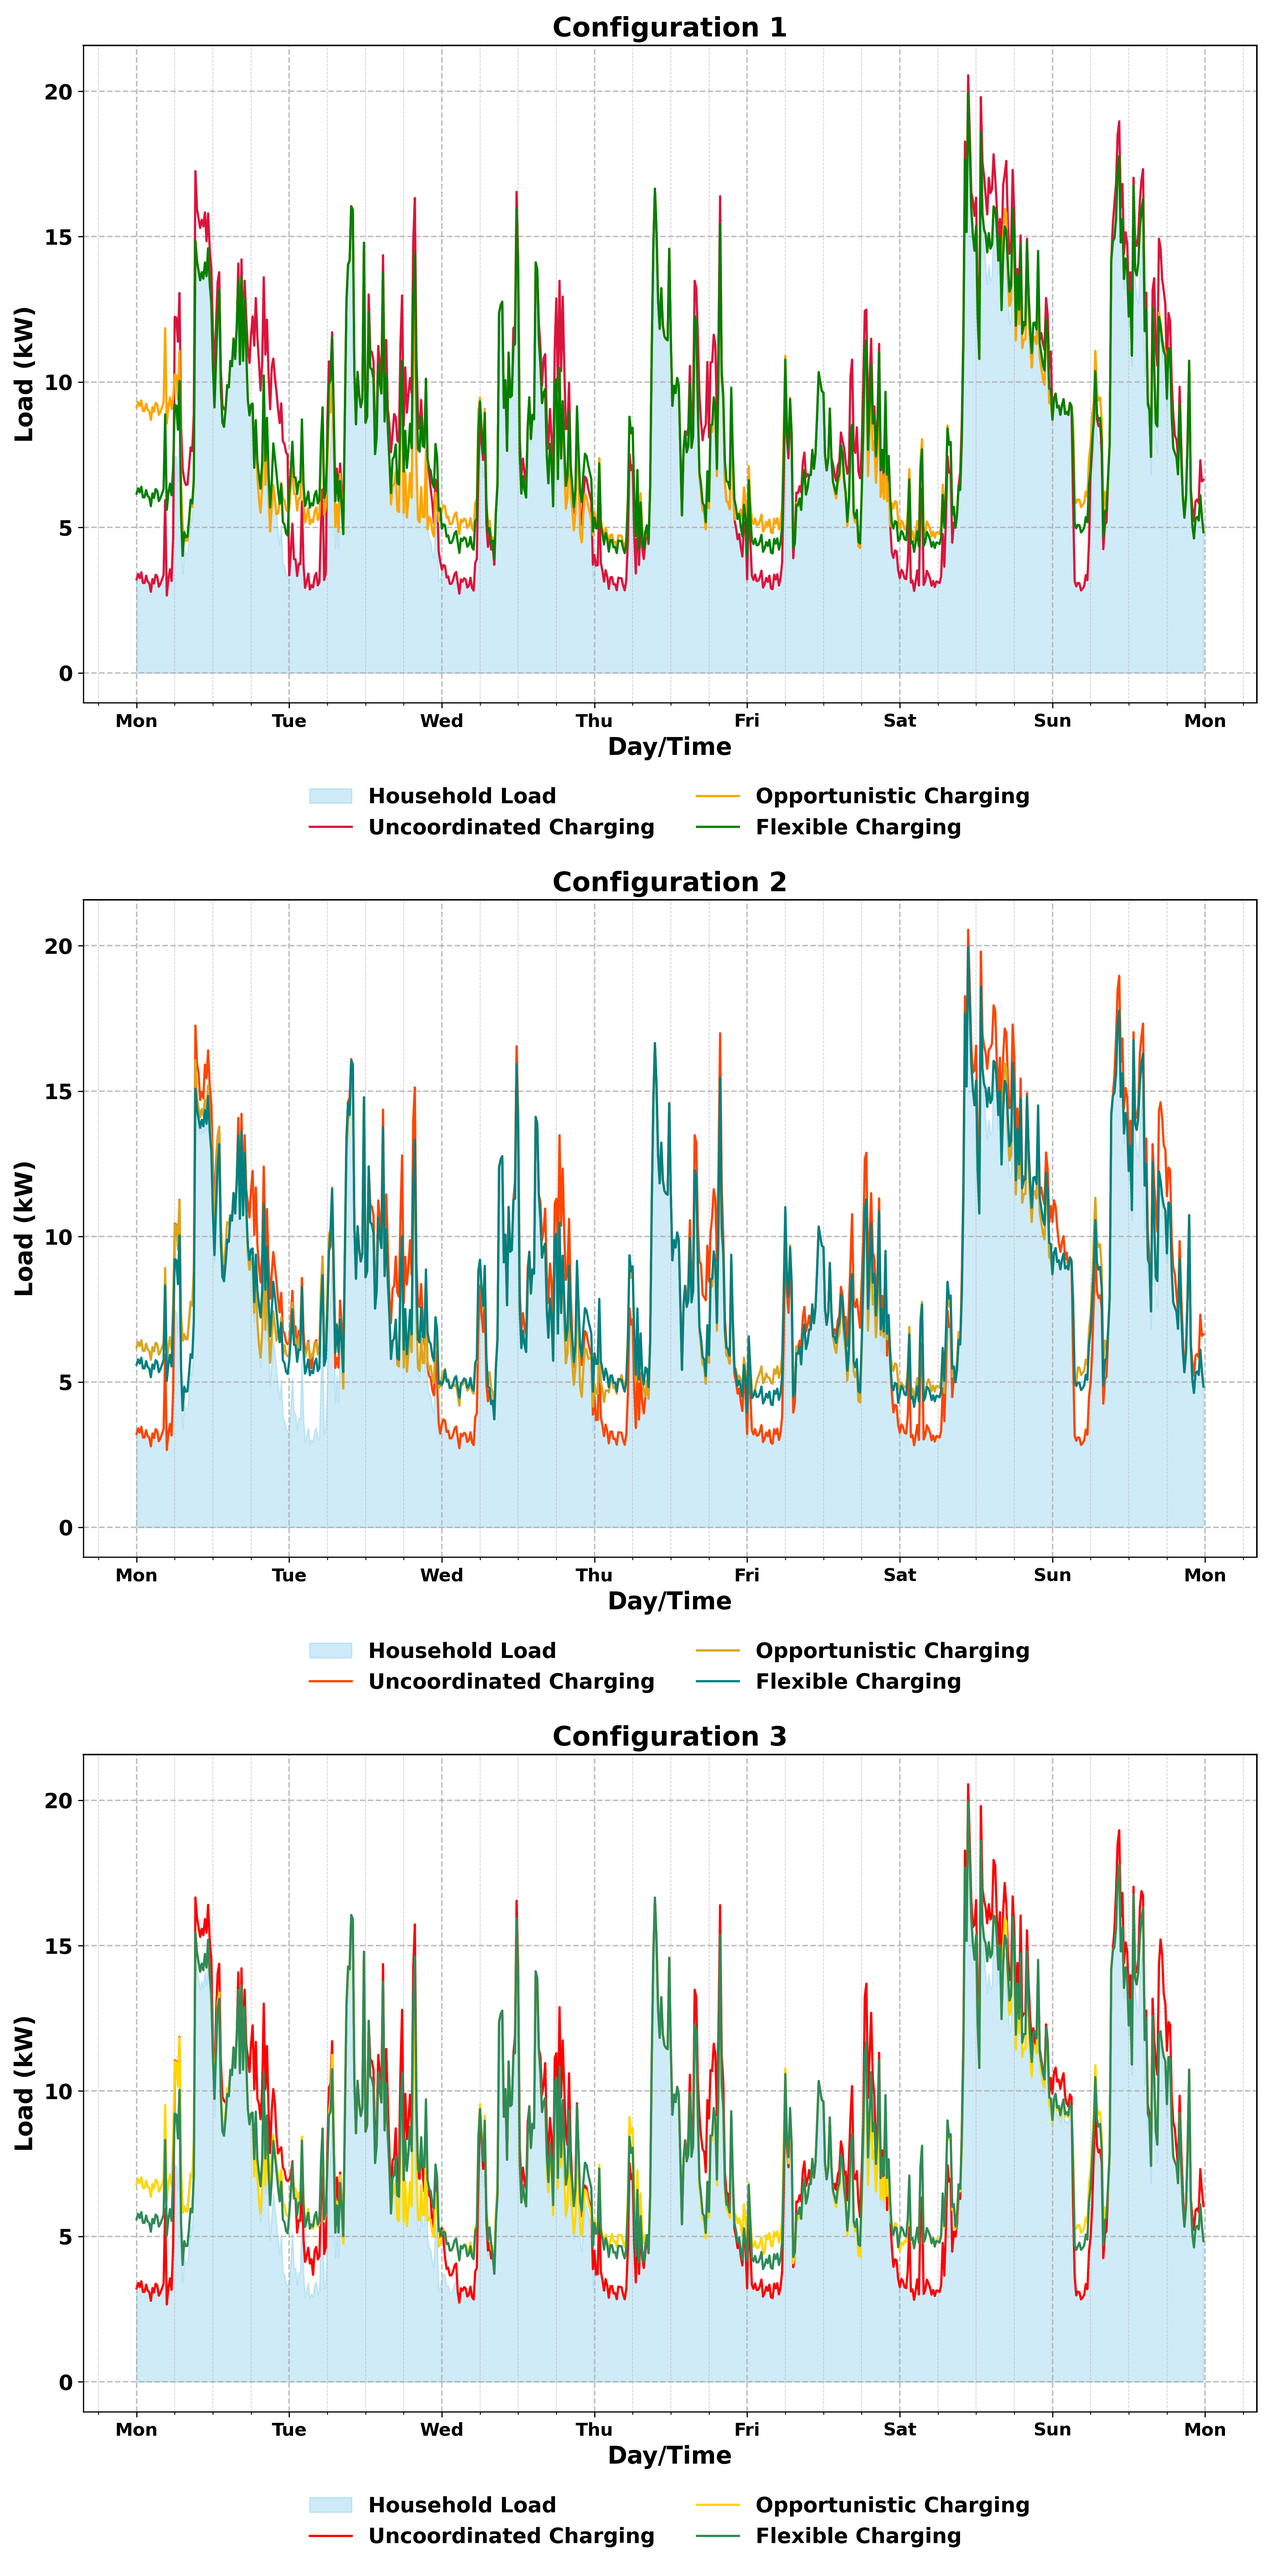
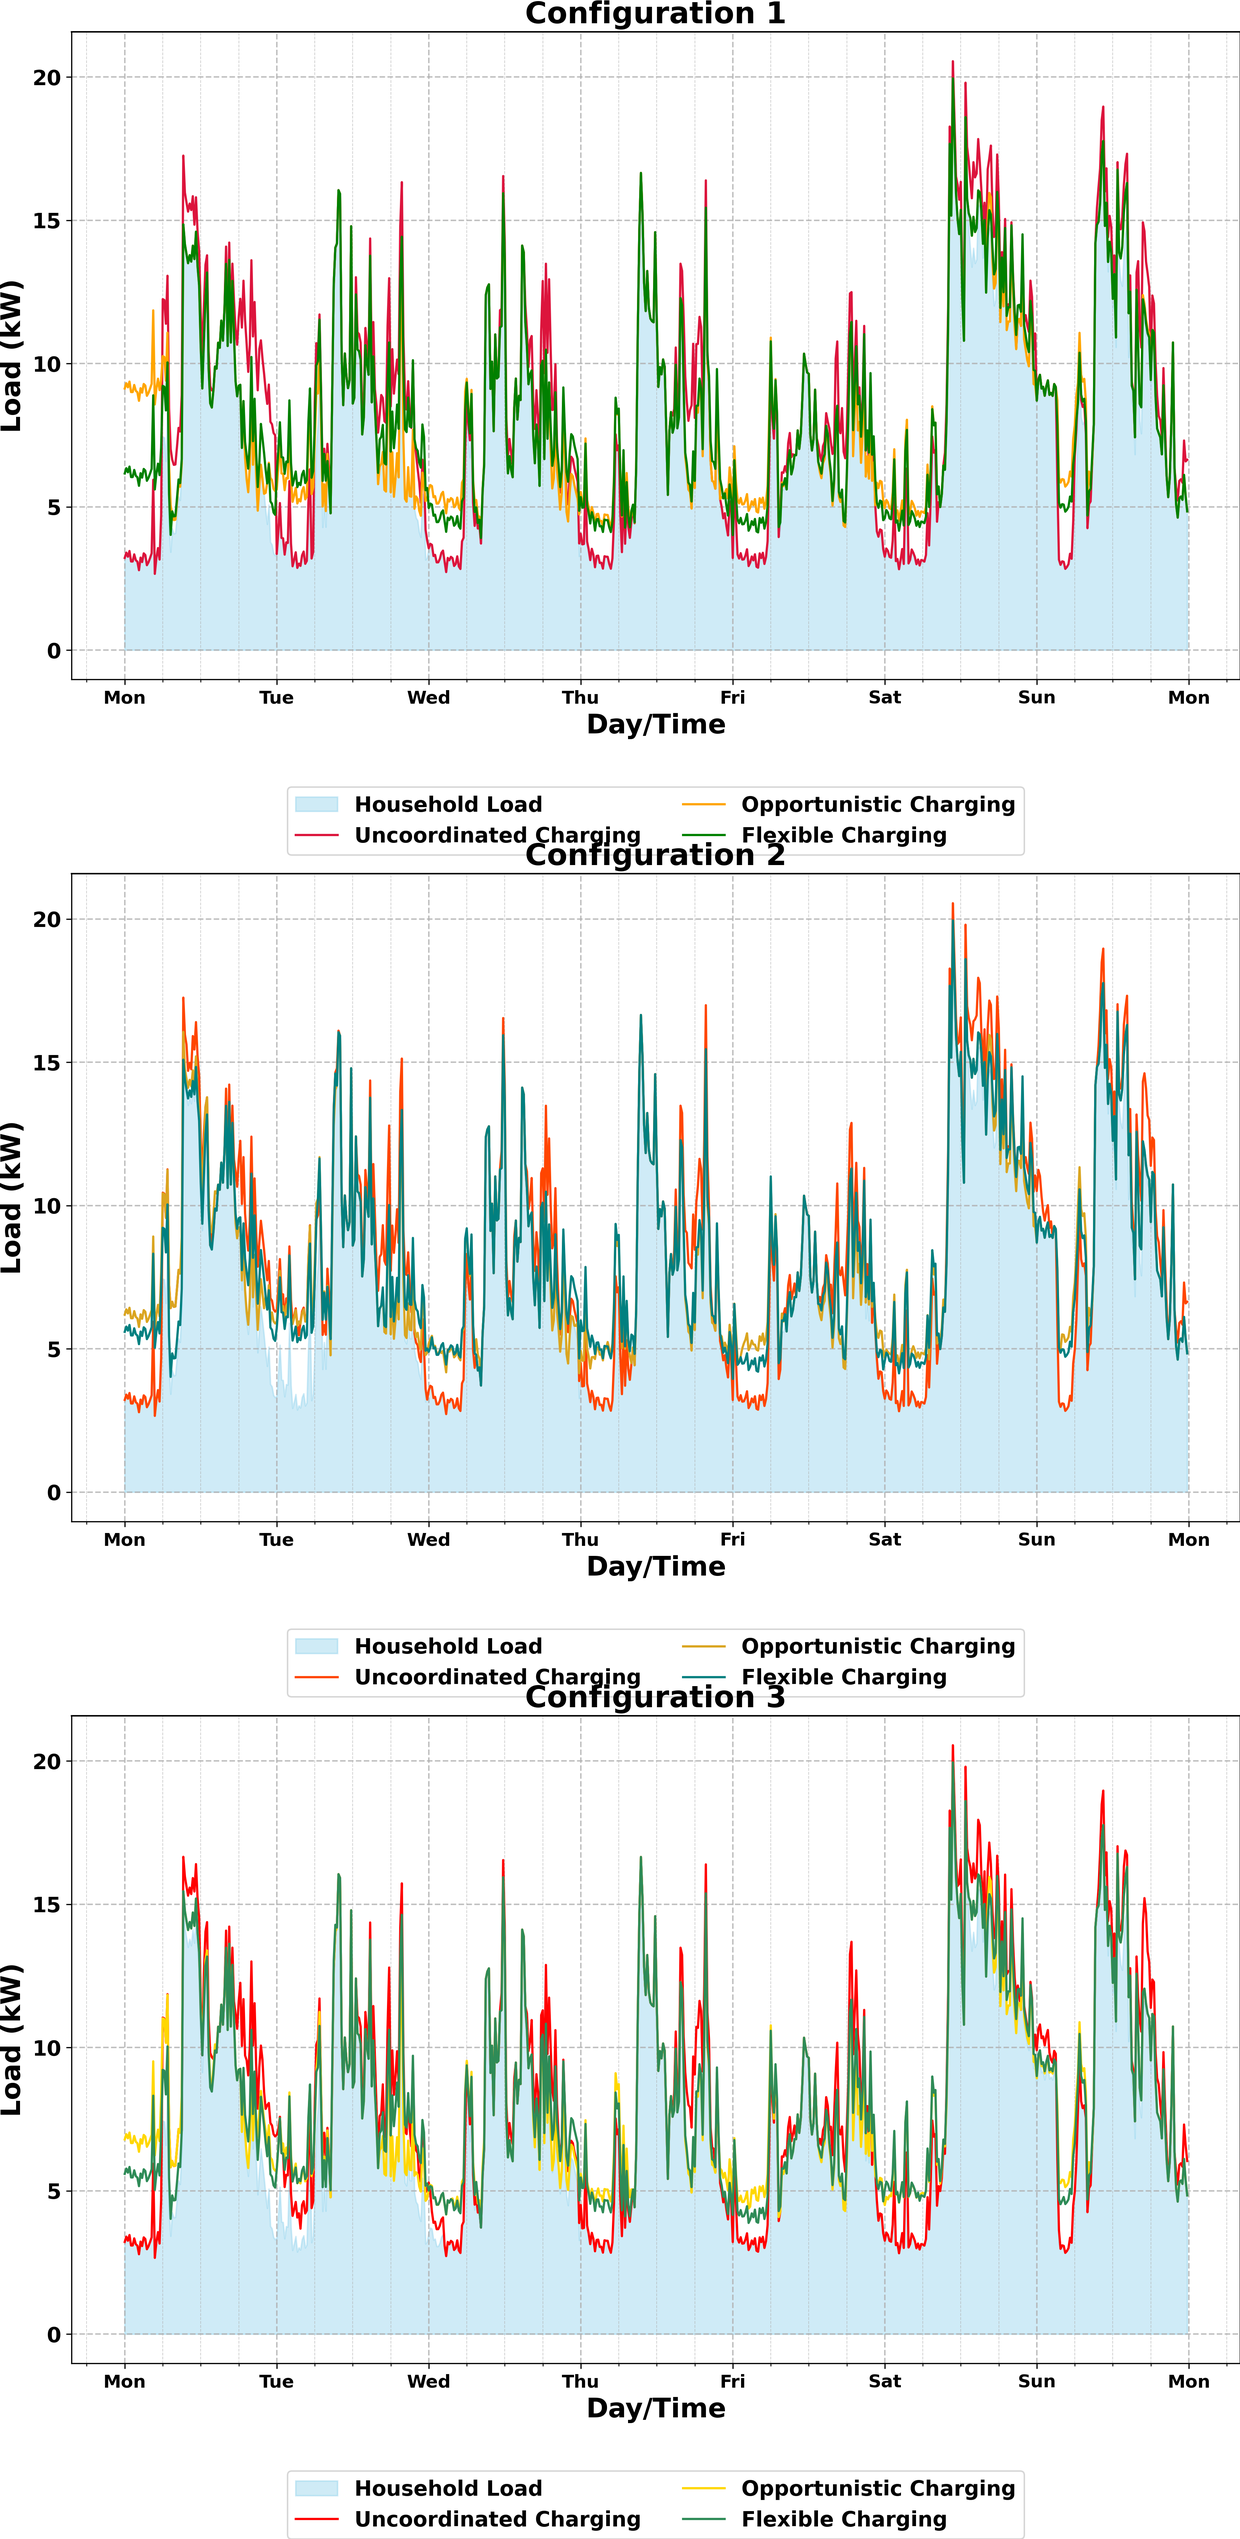
Add demand profile plot by config without background

diff --git a/src/visualisation/plot_comparison/technical_comparison.py b/src/visualisation/plot_comparison/technical_comparison.py
@@ -78,16 +78,7 @@ def get_dso_metrics_df(configurations: list[str], charging_strategies: list[str]
     return df_results
 
 
-if __name__ == '__main__':
-    get_dso_metrics_df(
-        ['config_1', 'config_2', 'config_3'],
-        # ['opportunistic', 'flexible'],
-        ['uncoordinated', 'opportunistic', 'flexible'],
-        'norm_w_sum',
-        'models_comparison'
-        # 'objective_comparison',
-        # ['min_economic', 'min_technical', 'min_econ_tech', 'norm_w_sum']
-    )
+
 
 
 
@@ -157,6 +148,19 @@ def demand_profiles_by_config(configurations: list[str], charging_strategies: li
         plot_setups.save_plot(f'demand_profiles_by_config_{params.num_of_evs}EVs_{version}')
 
     # plt.show()
+
+
+if __name__ == '__main__':
+    demand_profiles_by_config(
+        ['config_1', 'config_2', 'config_3'],
+        # ['opportunistic', 'flexible'],
+        ['uncoordinated', 'opportunistic', 'flexible'],
+        'norm_w_sum',
+        save_img=True,
+        # 'models_comparison'
+        # 'objective_comparison',
+        # ['min_economic', 'min_technical', 'min_econ_tech', 'norm_w_sum']
+    )
 
 
 def charging_strategy_load_delta_comparison(configurations: list[str], charging_strategies: list[str], version: str, save_img=False):
